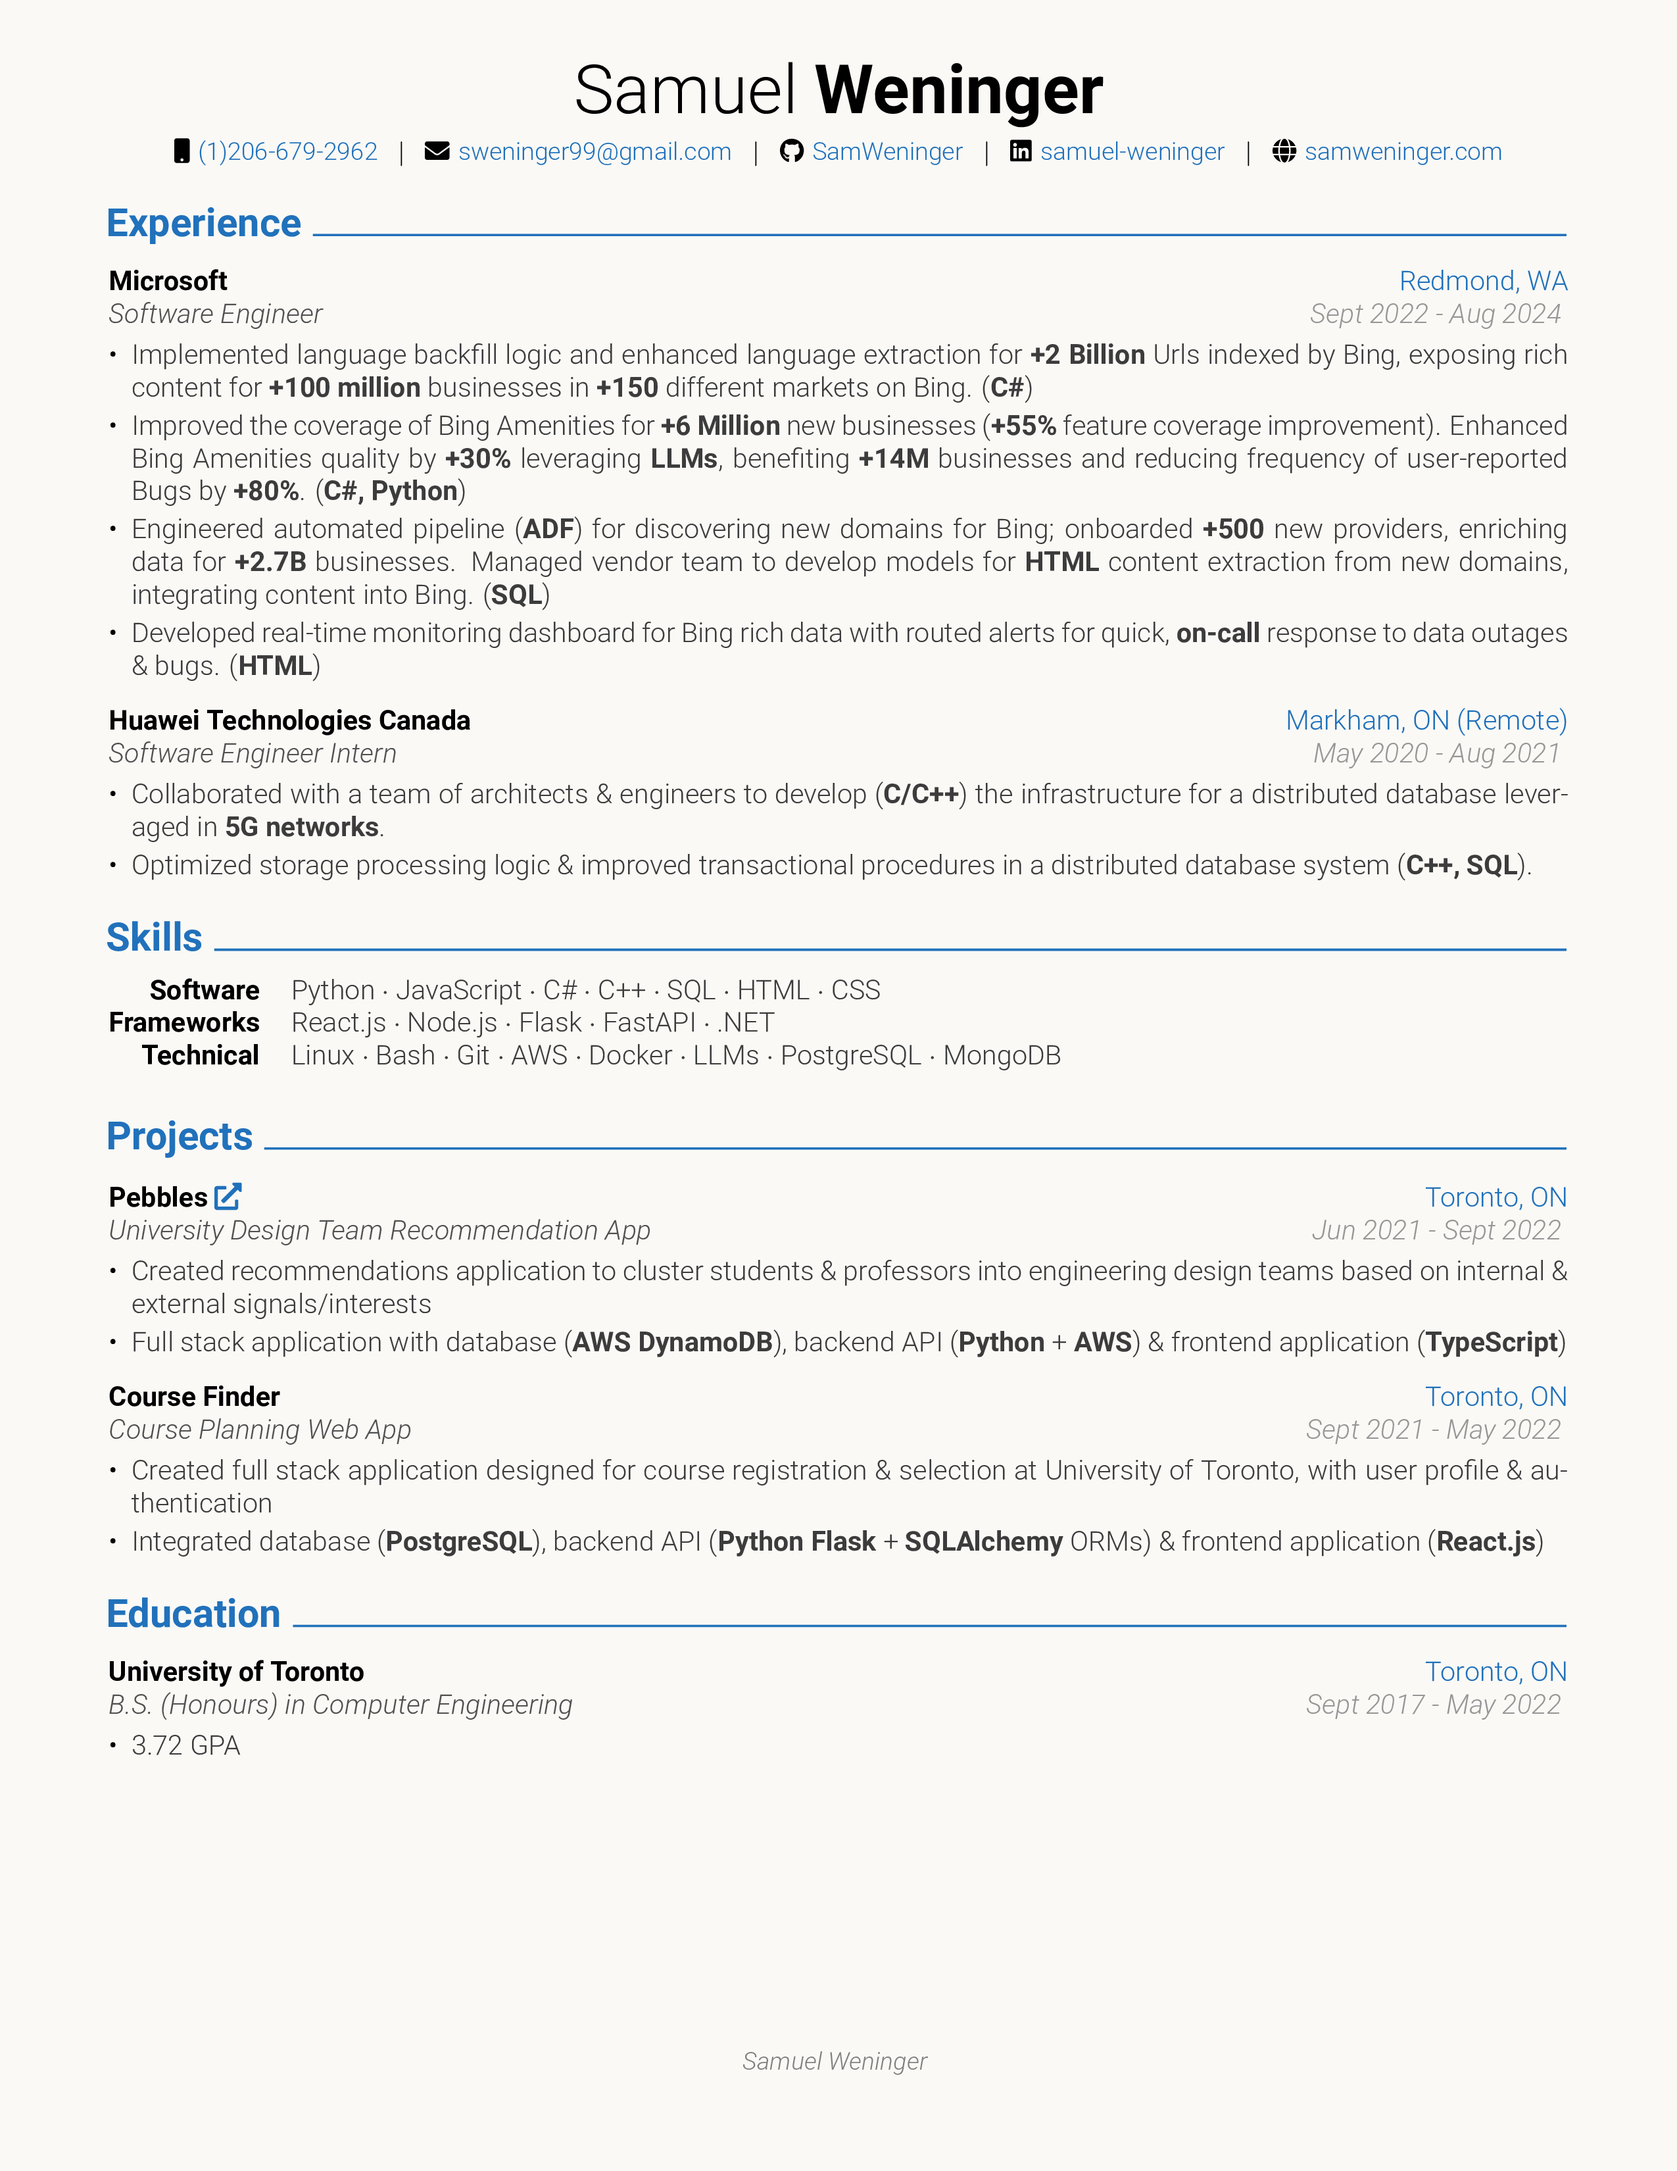
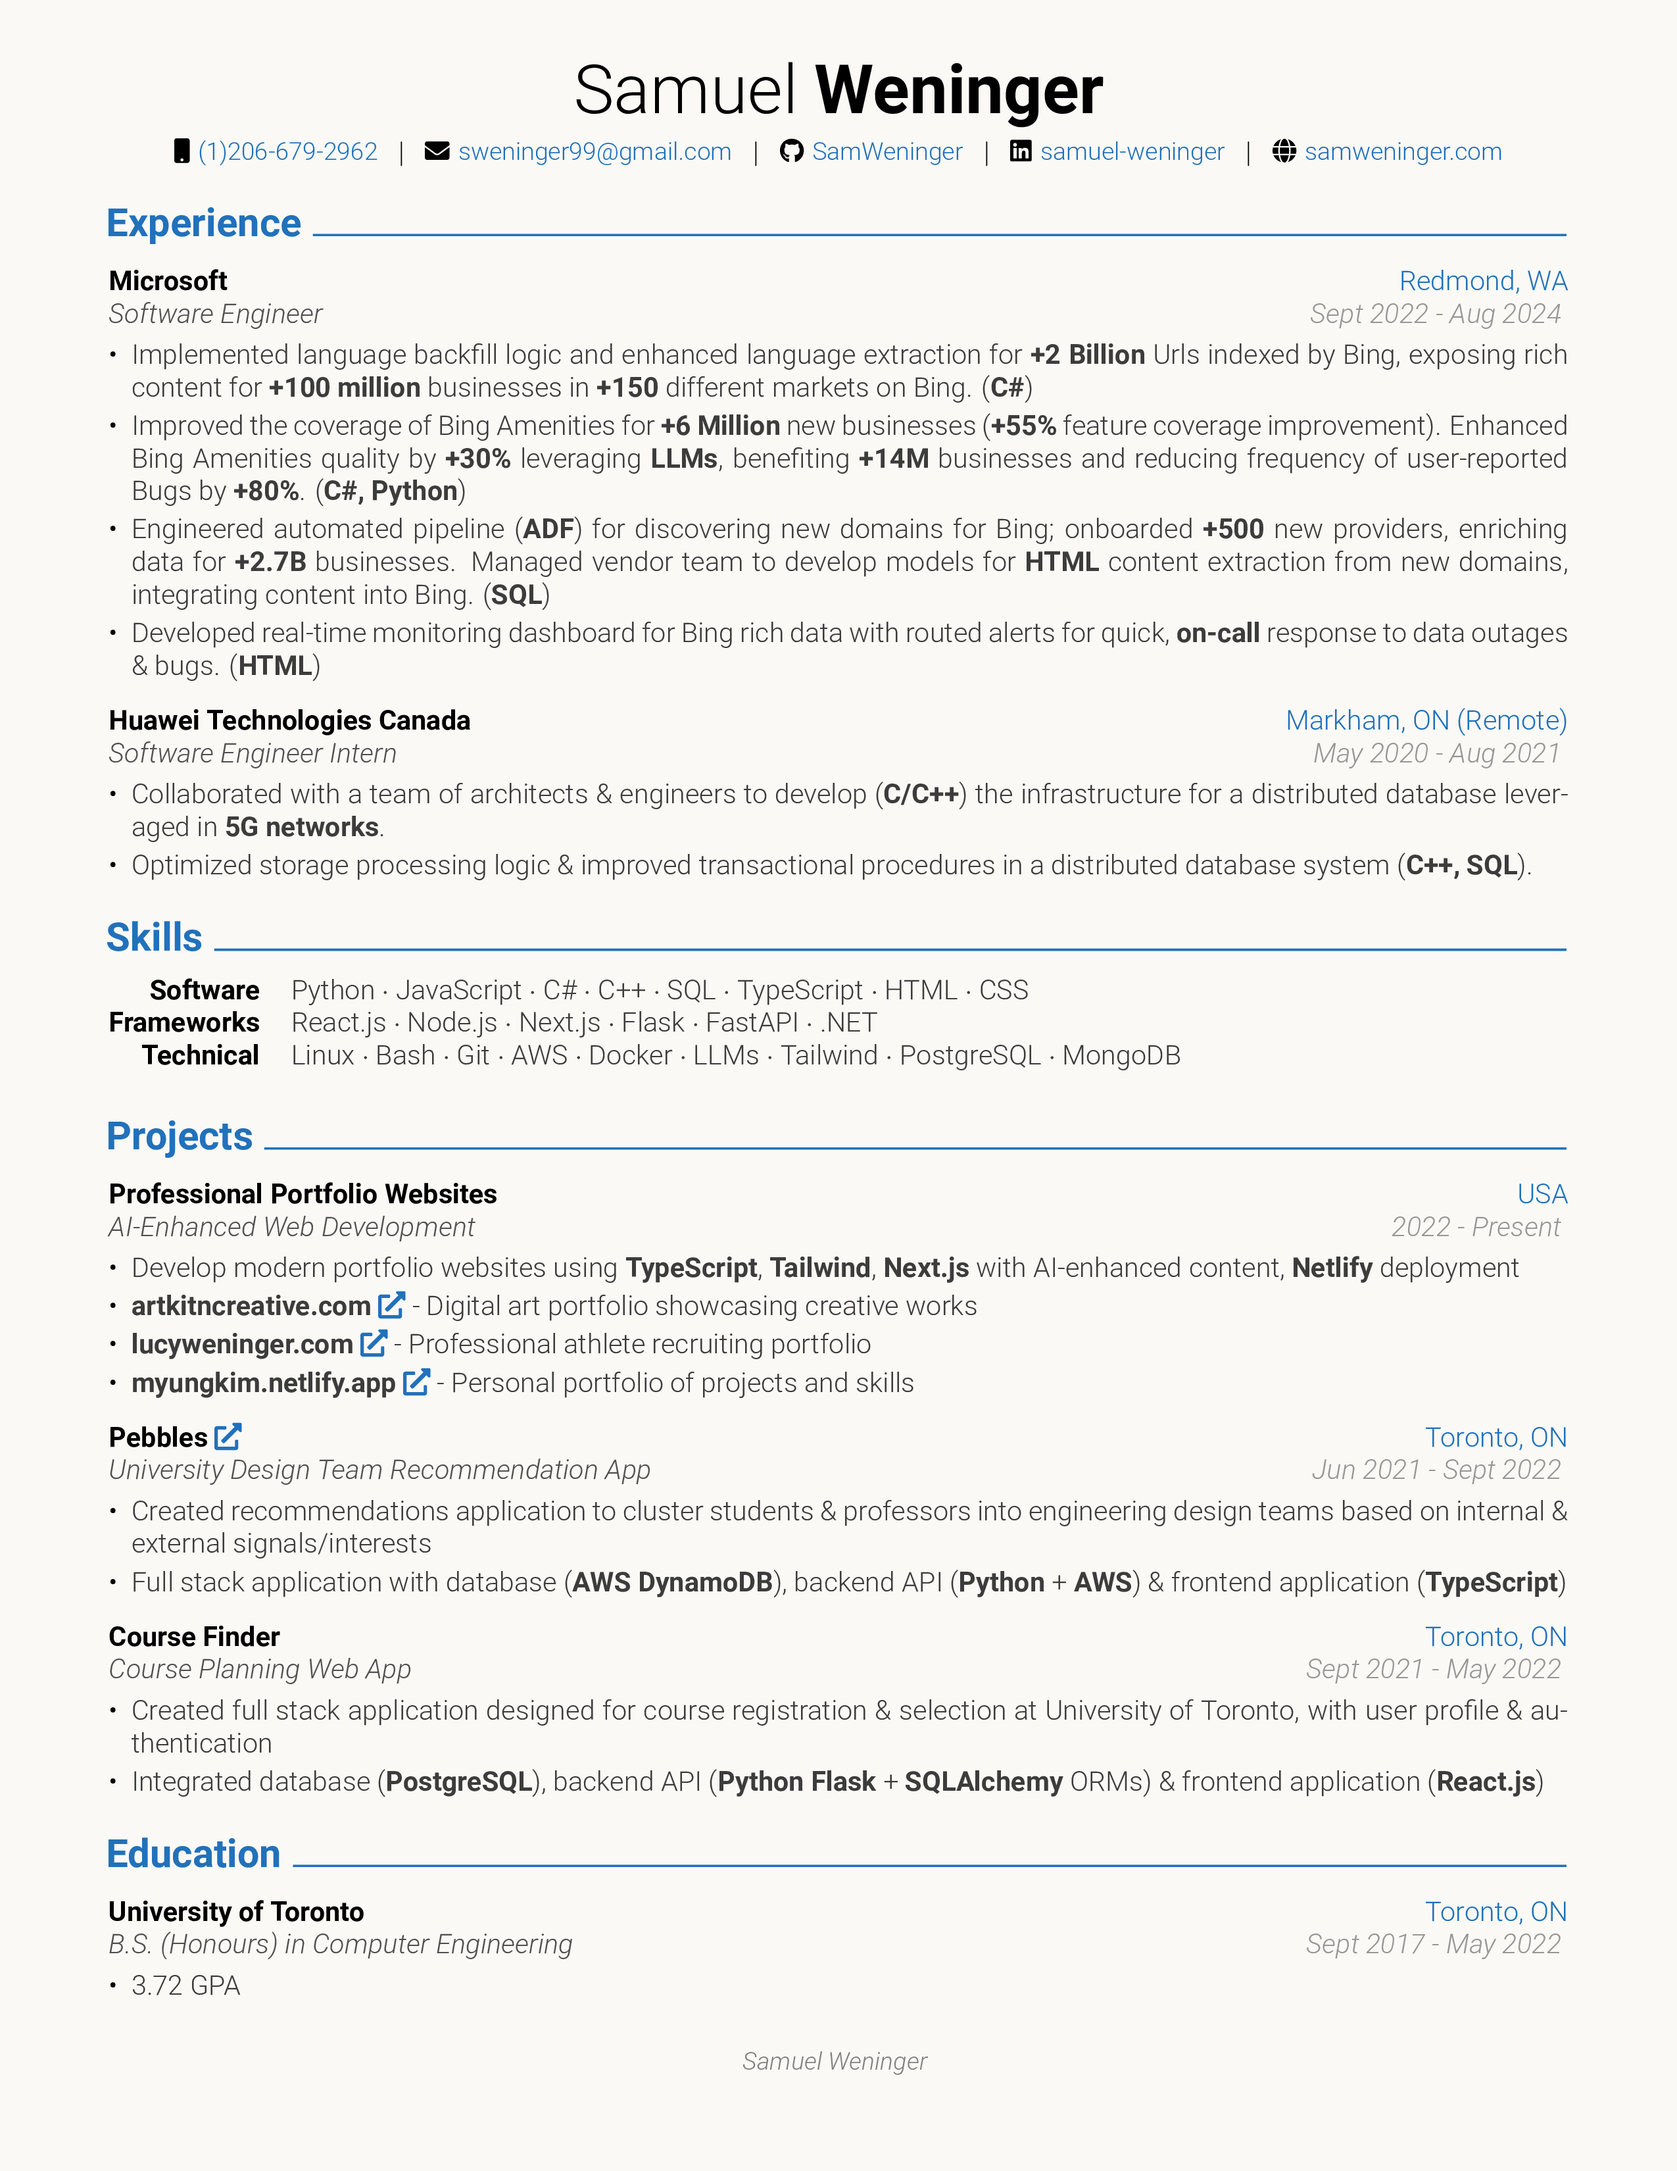
update skills, projects/websites

diff --git a/sections/projects.tex b/sections/projects.tex
@@ -2,6 +2,16 @@
 \section{Projects}
 \resumeSubHeadingListStart
     \item
+        \textbf{Professional Portfolio Websites} \hfill \textcolor{primaryColor}{USA} \\
+        \textcolor{tertiaryColor}{\textit{AI-Enhanced Web Development}} \hfill \textcolor{secondaryColor}{\textit{2022 - Present}}
+    \resumeItemListStart
+        \resumeItem{Develop modern portfolio websites using \textbf{TypeScript}, \textbf{Tailwind}, \textbf{Next.js} with AI-enhanced content, \textbf{Netlify} deployment}
+        \resumeItem{\textbf{artkitncreative.com} \href{https://www.artkitncreative.com/}{\faExternalLink*} - Digital art portfolio showcasing creative works}
+        \resumeItem{\textbf{lucyweninger.com} \href{https://lucyweninger.com/}{\faExternalLink*} - Professional athlete recruiting portfolio}
+        \resumeItem{\textbf{myungkim.netlify.app} \href{https://myungkim.netlify.app/}{\faExternalLink*} - Personal portfolio of projects and skills}
+    \resumeItemListEnd
+
+    \item
         \textbf{Pebbles} \href{https://pebbles-capstone.netlify.app/}{\faExternalLink*} \hfill \textcolor{primaryColor}{Toronto, ON} \\
         \textcolor{tertiaryColor}{\textit{University Design Team Recommendation App}} \hfill \textcolor{secondaryColor}{\textit{Jun 2021 - Sept 2022}}
     \resumeItemListStart

diff --git a/sections/skills.tex b/sections/skills.tex
@@ -2,7 +2,7 @@
 \section{Skills}
 \vspace{-0.1cm}
 \begin{tabular*}{\textwidth}{@{}r@{\hspace{.4cm}}l@{}}
-    \textbf{Software} & \textcolor{quaternaryColor}{Python $\cdot$ JavaScript $\cdot$ C\# $\cdot$ C++ $\cdot$ SQL $\cdot$ HTML $\cdot$ CSS} \\
-    \textbf{Frameworks} & \textcolor{quaternaryColor}{React.js $\cdot$ Node.js $\cdot$ Flask $\cdot$ FastAPI $\cdot$ .NET} \\
-    \textbf{Technical} & \textcolor{quaternaryColor}{Linux $\cdot$ Bash $\cdot$ Git $\cdot$ AWS $\cdot$ Docker $\cdot$ LLMs $\cdot$ PostgreSQL $\cdot$ MongoDB} \\
+    \textbf{Software} & \textcolor{quaternaryColor}{Python $\cdot$ JavaScript $\cdot$ C\# $\cdot$ C++ $\cdot$ SQL $\cdot$ TypeScript $\cdot$ HTML $\cdot$ CSS} \\
+    \textbf{Frameworks} & \textcolor{quaternaryColor}{React.js $\cdot$ Node.js $\cdot$ Next.js $\cdot$ Flask $\cdot$ FastAPI $\cdot$ .NET} \\
+    \textbf{Technical} & \textcolor{quaternaryColor}{Linux $\cdot$ Bash $\cdot$ Git $\cdot$ AWS $\cdot$ Docker $\cdot$ LLMs $\cdot$ Tailwind $\cdot$ PostgreSQL $\cdot$ MongoDB} \\
 \end{tabular*}
